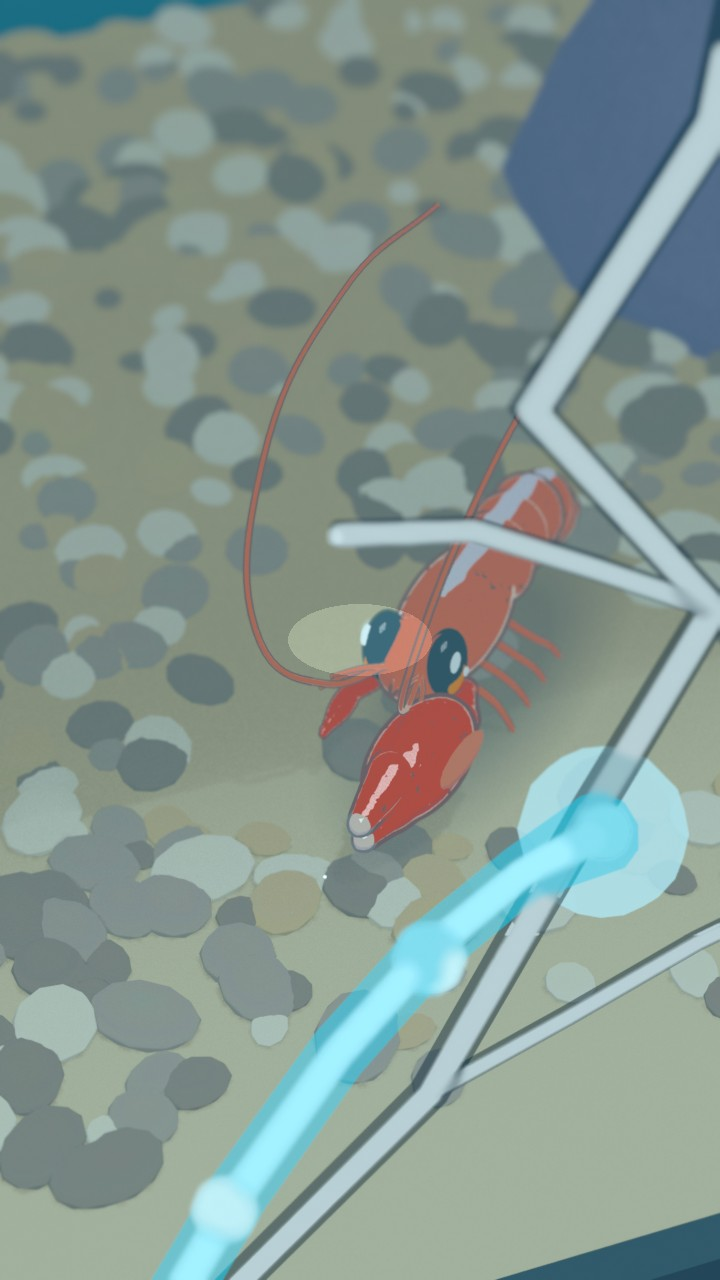
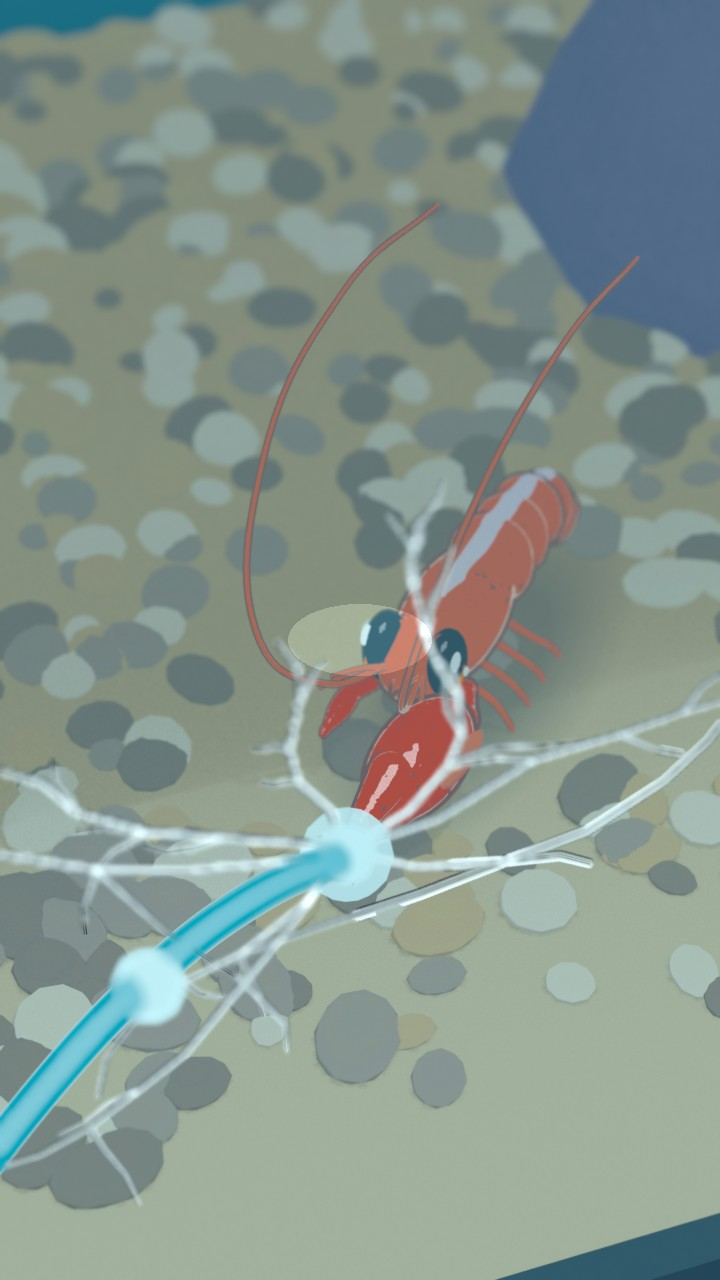
Diorama v3 S07: the glass breaks from the snap's impact point at the claw (star, ring flash, jagged radial crack with hairlines, branches and web, spreading on 1s with glints); the jet comes from that point; stills f44/f52/f56/f70
Claude-Session: https://claude.ai/code/session_01PF511Y13zuEX6TW3egNyxM

Changed region(s): [[0.0, 0.0, 1.0, 1.0], [0.3667, 0.7812, 0.3972, 0.8125], [0.1528, 0.9062, 0.1833, 0.9375]]

diff --git a/channels/monsters/diorama_v3/helper2.py b/channels/monsters/diorama_v3/helper2.py
@@ -7,8 +7,11 @@ snap cracked the tank." Close in the hero tank of helper 1's dollhouse lab (mk/d
     (before "Its")          a 4-frame cut to its wide, trembling eyes (the 9-step hit template, IM1)
     "Its snap"              the claw cocks back, held while only the glint grows (IM2); the 2-frame shut lands on
                             "snap"; flash, then 2 impact frames (comp.impact from the subject pass, at IMPACT)
-    "cracked"               the crack zigzags across the front glass from a starburst
-    "the tank."             a jet of water spits out of the crack, arcs over the desk and splashes on it
+    (the shut + 1)          the shock hits the front glass right at the claw: a white star, a ring flash, tiny cracks
+    "cracked"               the glass breaks from that point (_glass_crack): jagged white lines with a dark hairline,
+                            branches and a spider-web ring, spreading in 4 steps on 1s with glints on the newest lines
+    "the tank."             a jet of water (mk/shared_water.falling_water) spits out of the impact point and arcs
+                            onto the desk, where a shared-water puddle spreads
 
 Every beat is placed on the words of line l7 in channels/monsters/ep01v3/timing.json (beats()), so the picture and
 the SFX follow the voice. One main camera, pushing in slowly on 1s through the whole shot, with a small shake on the
@@ -146,15 +149,15 @@ def _jet(origin, f, end, floor_z, k=UNITS, seed=11):
 
     t_hit = (v.z + math.sqrt(v.z * v.z + 2 * g * (o.z - floor_z))) / g
     pts = [at(t_hit * i / 10) for i in range(11)]
-    fall = sw.falling_water(pts, f, end, radius=0.0032 * k, grow=3, k=0.22, name="jet", taper=(1.5, 0.8))
+    fall = sw.falling_water(pts, f, end, radius=0.0022 * k, grow=3, k=0.22, name="jet", taper=(1.3, 0.8))
     arcs = [fall["body"], fall["core"]]
     # the burst at the crack: a little star of spray, then it keeps fizzing
     burst = ps._sphere("jet_burst", o, (1, 1, 1), ps._glow("jet_burst_m", look.hexc("#e6fbff"), 0.8), 0, 16)
     burst.visible_shadow = False
-    for fr, sc_ in ((f - 1, 0.0001), (f, 0.028 * k), (f + 1, 0.018 * k), (f + 3, 0.011 * k)):
+    for fr, sc_ in ((f - 1, 0.0001), (f, 0.014 * k), (f + 1, 0.009 * k), (f + 3, 0.006 * k)):
         anim.key(burst, "scale", fr, sc_, "CONSTANT")
     for n in range(f + 3, end + 1, 2):
-        anim.key(burst, "scale", n, (0.009 if (n - f) % 4 == 1 else 0.012) * k, "CONSTANT")
+        anim.key(burst, "scale", n, (0.005 if (n - f) % 4 == 1 else 0.0065) * k, "CONSTANT")
     # droplets thrown off the stream, on 1s
     dm = look.flat("jet_drop", look.hexc("#e9fcff"), 1.6)
     for i in range(9):
@@ -183,6 +186,124 @@ def _jet(origin, f, end, floor_z, k=UNITS, seed=11):
     anim.key(pud, "scale", end, (0.07 * k, 0.05 * k, 1), "LINEAR")
     sw.rim(pud, width=0.08)
     return arcs
+
+
+def _jag(rnd, p, ang, length, segs, wobble=0.45):
+    """A jagged line in the glass plane (x, z) from p: `segs` kinks, each turning by up to `wobble` radians."""
+    pts = [Vector(p)]
+    step = length / segs
+    for _ in range(segs):
+        ang += rnd.uniform(-wobble, wobble)
+        q = pts[-1] + Vector((math.cos(ang), 0.0, math.sin(ang))) * step * rnd.uniform(0.7, 1.3)
+        pts.append(q)
+    return pts
+
+
+def _crack_line(name, pts, f_show, f_done, lite, dark, w=0.0026, side=1):
+    """One crack line: a bright white curve with a dark hairline one pixel or two to one side (and a hair behind,
+    on the glass), growing from its first point between f_show and f_done on 1s."""
+    objs = []
+    for nm, m, r, off in ((f"{name}_d", dark, w * 0.35, side * w * 0.75), (f"{name}_l", lite, w * 0.5, 0.0)):
+        cu = bpy.data.curves.new(nm, "CURVE")
+        cu.dimensions = "3D"
+        sp = cu.splines.new("POLY")
+        sp.points.add(len(pts) - 1)
+        for i, (a, q) in enumerate(zip(sp.points, pts)):
+            nb = pts[min(i + 1, len(pts) - 1)] - pts[max(i - 1, 0)]
+            perp = Vector((-nb.z, 0.0, nb.x)).normalized() if nb.length > 1e-6 else Vector((0, 0, 1))
+            c = q + perp * off + Vector((0, 0.0006 if off else 0.0, 0))
+            a.co = (c.x, c.y, c.z, 1.0)
+            a.radius = 1.0 - 0.5 * i / max(1, len(pts) - 1)            # thinner toward the end
+        cu.bevel_depth = r
+        cu.bevel_resolution = 1
+        o = bpy.data.objects.new(nm, cu)
+        bpy.context.scene.collection.objects.link(o)
+        o.data.materials.append(m)
+        o.visible_shadow = False
+        steps = max(1, f_done - f_show)
+        for i in range(-1, steps + 1):
+            cu.bevel_factor_end = 0.0 if i < 0 else min(1.0, 0.08 + 0.92 * i / steps)
+            cu.keyframe_insert("bevel_factor_end", frame=f_show + i)
+        for fc in anim.all_fcurves(cu.animation_data.action):
+            for kp in fc.keyframe_points:
+                kp.interpolation = "CONSTANT"
+        objs.append(o)
+    return objs
+
+
+def _glass_crack(hit, f_hit, f0, steps=4, seed=17, size=0.42):
+    """The front glass breaking from the snap. On f_hit (the frame after the shut): a small white star and a ring of
+    light flash at the impact point, with a few tiny cracks. From f0 ("cracked") the crack spreads out in `steps`
+    steps on 1s: 8 jagged radial lines (out to `size` units, 3 px wide at 720), short branches off them, a broken
+    spider-web ring near the centre; a glint runs out along the newest lines. Lines are white with a dark hairline
+    on one side, so they read on the gravel."""
+    rnd = random.Random(seed)
+    lite = look.flat("crack3_lite", look.hexc("#ffffff"), 2.2)
+    dark = look.flat("crack3_dark", look.hexc("#0e2c38"), 1.0)
+    out = []
+    # the impact: tiny cracks at once, a white star and a ring flash
+    for i in range(6):
+        a = i / 6 * 2 * math.pi + rnd.uniform(-0.3, 0.3)
+        out += _crack_line(f"crk_hit{i}", _jag(rnd, hit, a, rnd.uniform(0.018, 0.03), 2, 0.3), f_hit, f_hit, lite,
+                           dark)
+    star = look.flat("crack3_star", look.hexc("#ffffff"), 4.0)
+    verts = [(math.cos(k / 16 * 2 * math.pi) * (1.0 if k % 2 == 0 else 0.18), 0,
+              math.sin(k / 16 * 2 * math.pi) * (1.0 if k % 2 == 0 else 0.18)) for k in range(16)] + [(0, 0, 0)]
+    me = bpy.data.meshes.new("crk_star")
+    me.from_pydata(verts, [], [(16, k, (k + 1) % 16) for k in range(16)])
+    st = bpy.data.objects.new("crk_star", me)
+    bpy.context.scene.collection.objects.link(st)
+    st.data.materials.append(star)
+    st.location = hit + Vector((0, -0.002, 0))
+    st.visible_shadow = False
+    for fr, sc_ in ((f_hit - 1, 0.0001), (f_hit, 0.05), (f_hit + 1, 0.035), (f_hit + 2, 0.02), (f_hit + 4, 0.012),
+                    (f0, 0.012), (f0 + 1, 0.03), (f0 + 2, 0.015), (f0 + 4, 0.008)):
+        anim.key(st, "scale", fr, (sc_, sc_, sc_), "CONSTANT")
+    ring = anim.shockwave(tuple(hit + Vector((0, -0.003, 0))), f_hit, frames=4, radius=0.12, color="#f0fbff")
+    ring.rotation_euler = (math.radians(90), 0, 0)
+    ring.visible_shadow = False
+    for fc in anim.all_fcurves(ring.animation_data.action):
+        if fc.data_path == "scale":
+            for kp in fc.keyframe_points:
+                if kp.co.x <= f_hit:
+                    kp.co.y *= 0.05
+                    kp.handle_left.y = kp.handle_right.y = kp.co.y
+    # the spread: radial lines out in `steps` steps, branches when the line reaches them, the web ring at step 2
+    mains = []
+    for i in range(8):
+        a = i / 8 * 2 * math.pi + rnd.uniform(-0.25, 0.25)
+        ln = size * rnd.uniform(0.45, 1.0)
+        pts = _jag(rnd, hit, a, ln, rnd.randint(6, 9))
+        out += _crack_line(f"crk_main{i}", pts, f0, f0 + steps - 1, lite, dark, side=(-1) ** i)
+        mains.append(pts)
+        for j in range(2, len(pts) - 1):
+            if rnd.random() < 0.55:
+                u = j / (len(pts) - 1)
+                fb = f0 + min(steps - 1, int(u * steps))
+                ba = a + rnd.choice((-1, 1)) * rnd.uniform(0.5, 1.1)
+                out += _crack_line(f"crk_br{i}_{j}", _jag(rnd, pts[j], ba, ln * rnd.uniform(0.12, 0.25), 3, 0.5),
+                                   fb, min(f0 + steps, fb + 1), lite, dark, w=0.0019, side=(-1) ** j)
+    for i in range(8):                                  # the web: short kinked links between neighbouring radials
+        if rnd.random() < 0.7:
+            a, b = mains[i], mains[(i + 1) % 8]
+            ka = min(len(a) - 1, 2 + rnd.randint(0, 1))
+            kb = min(len(b) - 1, 2 + rnd.randint(0, 1))
+            mid = (a[ka] + b[kb]) / 2 + (a[ka] + b[kb] - 2 * hit).normalized() * 0.006
+            out += _crack_line(f"crk_web{i}", [a[ka], mid, b[kb]], f0 + 1, f0 + 2, lite, dark, w=0.0019)
+    # glints running out along three of the newest lines, on 1s
+    gm = ps._glow("crack3_glint", look.hexc("#ffffff"), 0.9)
+    for i in (0, 3, 5):
+        pts = mains[i]
+        g = ps._sphere(f"crk_glint{i}", hit, (1, 1, 1), gm, 0, 12)
+        g.visible_shadow = False
+        anim.key(g, "scale", f0 - 1, 0.0001, "CONSTANT")
+        last = f0 + steps + 3
+        for fr in range(f0, last + 1):
+            u = min(1.0, (fr - f0 + 1) / (last - f0 + 1))
+            q = pts[min(len(pts) - 1, int(u * (len(pts) - 1)))]
+            anim.key(g, "location", fr, q + Vector((0, -0.002, 0)), "CONSTANT")
+            anim.key(g, "scale", fr, 0.009 * (1.0 if fr < last else 0.0001), "CONSTANT")
+    return out
 
 
 def _push(cam, target, f0, f1, amount=0.1):
@@ -224,19 +345,18 @@ def s07():
     home = _hop(rig, hop, back=Vector((0.12, 0.05, 0.0)) * rig["k"] * 2)
     _tremble(rig, hop + 11, wind, home)
     _strike(rig, wind, snap)
-    lx, ly, lz = tank["leak"]
-    gy = tank["glass"].location.y - 0.006 * UNITS
-    path = [(x * UNITS, z * UNITS) for x, z in ps.crack_path()]
-    gc = ps.glass_crack((lx, gy, lz - 0.005 * UNITS), path, k=UNITS)
-    ps.crack(gc, crack, frames=5)
-    h3d._dim_water(tank, [(wind, 1.0), (snap, 0.6)])
-    j = min(3, len(path) - 1)                           # the jet bursts from low on the crack, under the waterline
-    desk = room["desk"]["top"] if room is not None else tank["floor"][2] - 0.3
-    _jet((lx + path[j][0], gy - 0.004 * UNITS, lz - 0.005 * UNITS + path[j][1]), jet, n, desk)
     fx, fy, fz = tank["floor"]
     # the claw tip and the crack a third in from the left, the body to the right of them, all left of x 560
     target = Vector((fx - 0.28, fy - 0.5, fz + 0.22))
     cam = diorama.camera("dio_cam_s07", target, dist=3.1, tilt=42, yaw=YAW, lens=d2.LENS, blur=d2.BLUR, frame=1)
+    gy = tank["glass"].location.y - 0.004 * UNITS        # just in front of the front pane
+    tip, _ = ps._jet(rig, snap + 1)                     # where the snap's shock hits the glass: on the pane where
+    ray = tip - cam.location                            # it covers the claw tip from the camera
+    hit = cam.location + ray * ((gy - cam.location.y) / ray.y) + Vector((0, 0, 0.005))
+    _glass_crack(hit, snap + 1, crack, seed=17)
+    h3d._dim_water(tank, [(wind, 1.0), (snap, 0.6)])
+    desk = room["desk"]["top"] if room is not None else tank["floor"][2] - 0.3
+    _jet(hit + Vector((0, -0.004, 0)), jet, n, desk)    # the water spits out of the impact point
     e = ps._world(rig["eyes"][0], eye0 + 1).translation          # where the eye is after the hop, mid-tremble
     eye = diorama.camera("dio_cam_s07_eye", e, dist=0.6, tilt=48, yaw=math.degrees(d2.TURN) - 60, lens=d2.LENS,
                          blur=d2.BLUR, frame=eye0)
